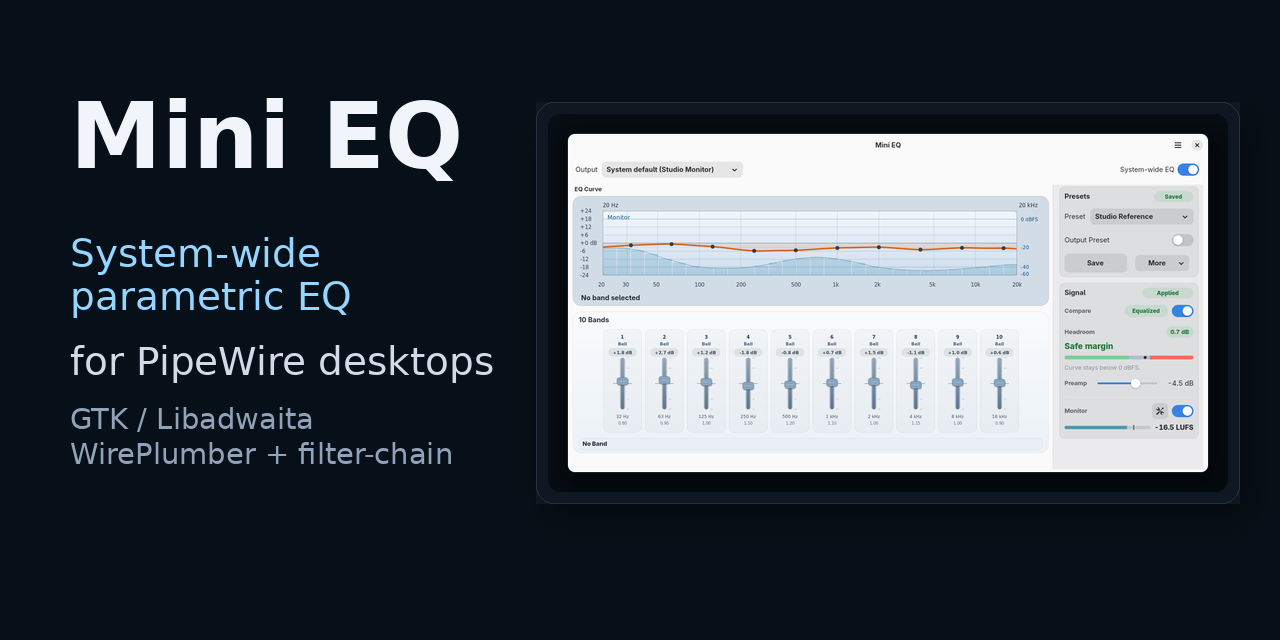
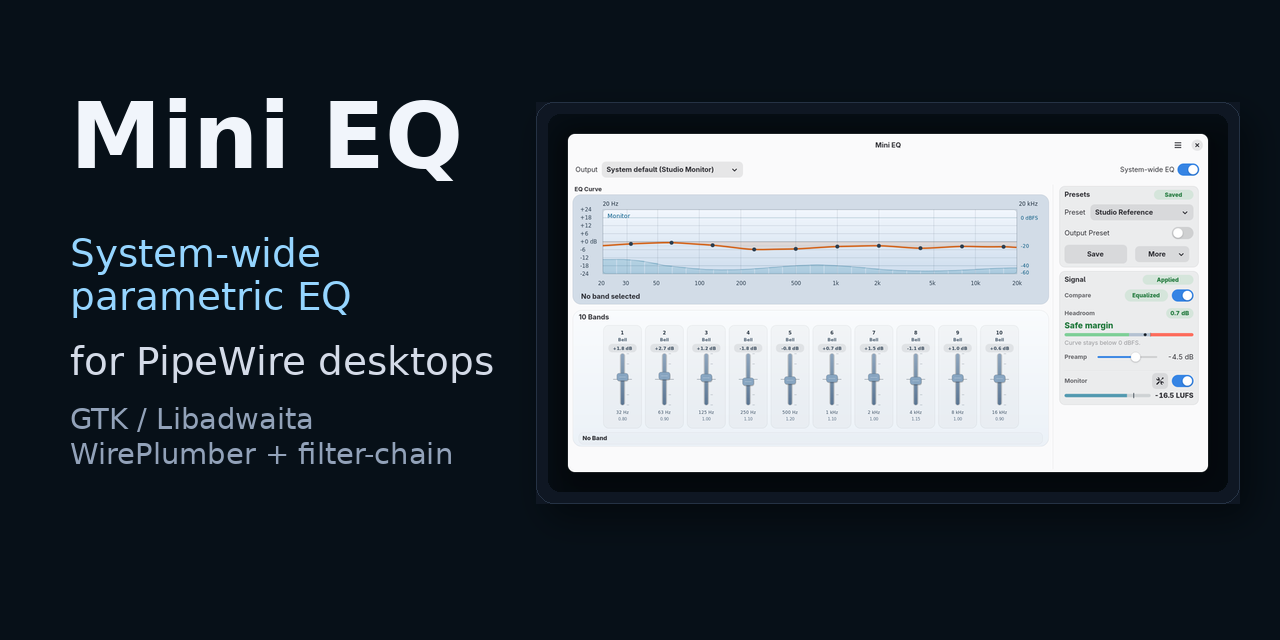
Prepare 0.3.1 release

Changed region(s): [[0.4375, 0.2812, 0.9375, 0.6875], [0.4688, 0.5938, 0.7188, 0.6562], [0.4375, 0.4375, 0.5, 0.5]]

diff --git a/src/mini_eq/style.css b/src/mini_eq/style.css
@@ -120,8 +120,21 @@
     color: alpha(var(--window-fg-color), 0.86);
 }
 
+overlay-split-view.mini-eq-workspace > widget.sidebar-pane {
+    background-color: transparent;
+}
+
+.mini-eq-dark overlay-split-view.mini-eq-workspace > widget.sidebar-pane {
+    background-color: transparent;
+}
+
+.utility-pane-scroller,
+.utility-pane-scroller viewport {
+    background-color: transparent;
+}
+
 .utility-section {
-    padding: 9px 10px;
+    padding: 7px 10px;
     border-radius: 12px;
     border: 1px solid var(--mini-border-soft);
     background-color: var(--mini-utility-section-bg);
@@ -132,13 +145,13 @@
 }
 
 .utility-row {
-    padding: 6px 0;
+    padding: 4px 0;
     border-radius: 0;
     background-color: transparent;
 }
 
 .compare-row {
-    padding: 6px 0;
+    padding: 4px 0;
     border-radius: 0;
     background-color: transparent;
 }
@@ -173,7 +186,7 @@
 }
 
 .preset-state-chip {
-    padding: 4px 10px;
+    padding: 3px 10px;
     border-radius: 999px;
     font-size: 9pt;
     font-weight: 800;
@@ -195,7 +208,7 @@
 }
 
 .system-state-chip {
-    padding: 4px 10px;
+    padding: 3px 10px;
     border-radius: 999px;
     font-size: 9pt;
     font-weight: 800;
@@ -222,7 +235,7 @@
 }
 
 .headroom-panel {
-    padding: 6px 0;
+    padding: 4px 0;
     border-radius: 8px;
     background-color: transparent;
 }
@@ -240,7 +253,7 @@
 }
 
 .headroom-peak-chip {
-    padding: 4px 9px;
+    padding: 3px 9px;
     border-radius: 999px;
     font-size: 9.5pt;
     font-weight: 800;
@@ -277,13 +290,13 @@
 }
 
 .monitor-strip {
-    margin-top: 3px;
-    padding-top: 7px;
+    margin-top: 1px;
+    padding-top: 5px;
     border-top: 1px solid var(--mini-border-subtle);
 }
 
 .monitor-detail-row {
-    min-height: 28px;
+    min-height: 24px;
 }
 
 .monitor-settings-button {
@@ -299,60 +312,7 @@
 }
 
 .loudness-meter-area {
-    min-height: 16px;
-}
-
-.utility-pane-dense .utility-section {
-    padding: 6px 8px;
-}
-
-.utility-pane-dense .utility-row,
-.utility-pane-dense .compare-row {
-    padding: 6px 8px;
-}
-
-.utility-pane-dense .toolbar-button {
-    min-height: 32px;
-    padding-top: 2px;
-    padding-bottom: 2px;
-}
-
-.utility-pane-dense .preset-row {
-    margin-top: 0;
-}
-
-.utility-pane-dense .preset-state-chip,
-.utility-pane-dense .system-state-chip,
-.utility-pane-dense .compare-state-chip,
-.utility-pane-dense .headroom-peak-chip {
-    padding-top: 2px;
-    padding-bottom: 2px;
-}
-
-.utility-pane-dense .headroom-panel {
-    padding: 6px 8px;
-}
-
-.utility-pane-dense .headroom-state {
-    font-size: 12pt;
-}
-
-.utility-pane-dense .headroom-meter-area {
-    min-height: 10px;
-}
-
-.utility-pane-dense .monitor-strip {
-    margin-top: 1px;
-    padding-top: 5px;
-}
-
-.utility-pane-dense .monitor-detail-row {
-    min-height: 24px;
-}
-
-.utility-pane-dense .monitor-settings-button {
-    min-width: 32px;
-    min-height: 32px;
+    min-height: 14px;
 }
 
 .headroom-state.headroom-safe {

diff --git a/src/mini_eq/window_layout.py b/src/mini_eq/window_layout.py
@@ -34,7 +34,6 @@ from .window_utils import (
 )
 
 ADAPTIVE_NARROW_BREAKPOINT_SP = 1320
-RESPONSIVE_COMFORTABLE_HEIGHT = 720
 RESPONSIVE_ROOMY_HEIGHT = 960
 COMPACT_BREAKPOINT_SP = 1080
 DEFAULT_GRAPH_CONTENT_WIDTH = 900
@@ -184,6 +183,7 @@ class MiniEqWindowLayoutMixin:
         root.append(toolbar_stack)
 
         workspace = Adw.OverlaySplitView()
+        workspace.add_css_class("mini-eq-workspace")
         workspace.set_hexpand(True)
         workspace.set_vexpand(True)
         workspace.set_valign(Gtk.Align.FILL)
@@ -219,6 +219,7 @@ class MiniEqWindowLayoutMixin:
         right_column.add_css_class("utility-pane-shell")
 
         right_scroller = Gtk.ScrolledWindow()
+        right_scroller.add_css_class("utility-pane-scroller")
         right_scroller.set_policy(Gtk.PolicyType.NEVER, Gtk.PolicyType.AUTOMATIC)
         right_scroller.set_propagate_natural_height(False)
         right_scroller.set_size_request(310, -1)
@@ -620,32 +621,27 @@ class MiniEqWindowLayoutMixin:
                 ROOMY_FADER_SCROLLER_MIN_HEIGHT,
                 layout_height,
             )
-            dense = layout_height < RESPONSIVE_COMFORTABLE_HEIGHT
-            right_column.set_spacing(8 if dense else 12)
-            right_column.set_margin_top(2 if dense else 4)
-            right_column.set_margin_bottom(0 if dense else 2)
-            preset_section.set_spacing(6 if dense else 8)
-            system_section.set_spacing(6 if dense else 8)
-            self.headroom_panel.set_spacing(4 if dense else 7)
-            self.headroom_meter_area.set_content_height(10 if dense else 14)
-            monitor_panel.set_spacing(2 if dense else 4)
-            if dense:
-                right_column.add_css_class("utility-pane-dense")
-            else:
-                right_column.remove_css_class("utility-pane-dense")
+            right_column.set_spacing(responsive_value(6, 12, layout_height))
+            right_column.set_margin_top(responsive_value(2, 4, layout_height))
+            right_column.set_margin_bottom(responsive_value(0, 2, layout_height))
+            preset_section.set_spacing(responsive_value(5, 8, layout_height))
+            system_section.set_spacing(responsive_value(5, 8, layout_height))
+            self.headroom_panel.set_spacing(responsive_value(3, 7, layout_height))
+            self.headroom_meter_area.set_content_height(responsive_value(9, 14, layout_height))
+            monitor_panel.set_spacing(responsive_value(1, 4, layout_height))
 
             if compact:
                 right_column.set_margin_start(18)
                 right_column.set_margin_end(12)
-                graph_shell.set_spacing(4 if not dense else 2)
+                graph_shell.set_spacing(responsive_value(2, 4, layout_height))
                 self.graph_area.set_content_height(graph_height)
                 self.analyzer_area.set_content_height(analyzer_height)
                 self.graph_response_area.set_content_height(graph_height)
                 fader_section.set_spacing(COMPACT_FADER_SECTION_SPACING)
                 fader_section.set_vexpand(False)
                 fader_section.set_valign(Gtk.Align.START)
-                fader_section.set_margin_top(6 if not dense else 4)
-                fader_section.set_margin_bottom(4 if not dense else 3)
+                fader_section.set_margin_top(responsive_value(4, 6, layout_height))
+                fader_section.set_margin_bottom(responsive_value(3, 4, layout_height))
                 self.fader_scroller.set_vexpand(False)
                 self.fader_scroller.set_valign(Gtk.Align.START)
                 self.fader_scroller.set_min_content_height(fader_scroller_height)
@@ -679,21 +675,23 @@ class MiniEqWindowLayoutMixin:
 
             right_column.set_margin_start(14)
             right_column.set_margin_end(10)
-            graph_shell.set_spacing(2 if dense else 6)
+            graph_shell.set_spacing(responsive_value(2, 6, layout_height))
             self.graph_area.set_content_height(graph_height)
             self.analyzer_area.set_content_height(analyzer_height)
             self.graph_response_area.set_content_height(graph_height)
-            fader_section.set_spacing(COMPACT_FADER_SECTION_SPACING if dense else DEFAULT_FADER_SECTION_SPACING)
+            fader_section.set_spacing(
+                responsive_value(COMPACT_FADER_SECTION_SPACING, DEFAULT_FADER_SECTION_SPACING, layout_height)
+            )
             fader_section.set_vexpand(False)
             fader_section.set_valign(Gtk.Align.START)
-            fader_section.set_margin_top(4 if dense else 8)
-            fader_section.set_margin_bottom(3 if dense else 6)
+            fader_section.set_margin_top(responsive_value(4, 8, layout_height))
+            fader_section.set_margin_bottom(responsive_value(3, 6, layout_height))
             self.fader_scroller.set_vexpand(False)
             self.fader_scroller.set_valign(Gtk.Align.START)
             self.fader_scroller.set_min_content_height(fader_scroller_height)
             self.fader_scroller.remove_css_class("fader-scroller-compact")
-            fader_grid.set_margin_top(2 if dense else 4)
-            fader_grid.set_margin_bottom(2 if dense else 4)
+            fader_grid.set_margin_top(responsive_value(2, 4, layout_height))
+            fader_grid.set_margin_bottom(responsive_value(2, 4, layout_height))
             band_editor.remove_css_class("band-editor-compact-active")
             band_editor.remove_css_class("band-editor-inline-compact")
             band_editor.set_child_spacing(8)

diff --git a/CHANGELOG.md b/CHANGELOG.md
@@ -1,5 +1,11 @@
 # Changelog
 
+## 0.3.1 - 2026-05-04
+
+- Improve adaptive layout spacing across compact, tall, and wide windows.
+- Remove unnecessary utility-pane scrolling at the minimum window height.
+- Lighten the utility pane presentation so tall windows keep focus on the controls.
+
 ## 0.3.0 - 2026-05-03
 
 - Add optional live LUFS loudness metering through libebur128 and the existing JACK monitor stream.
